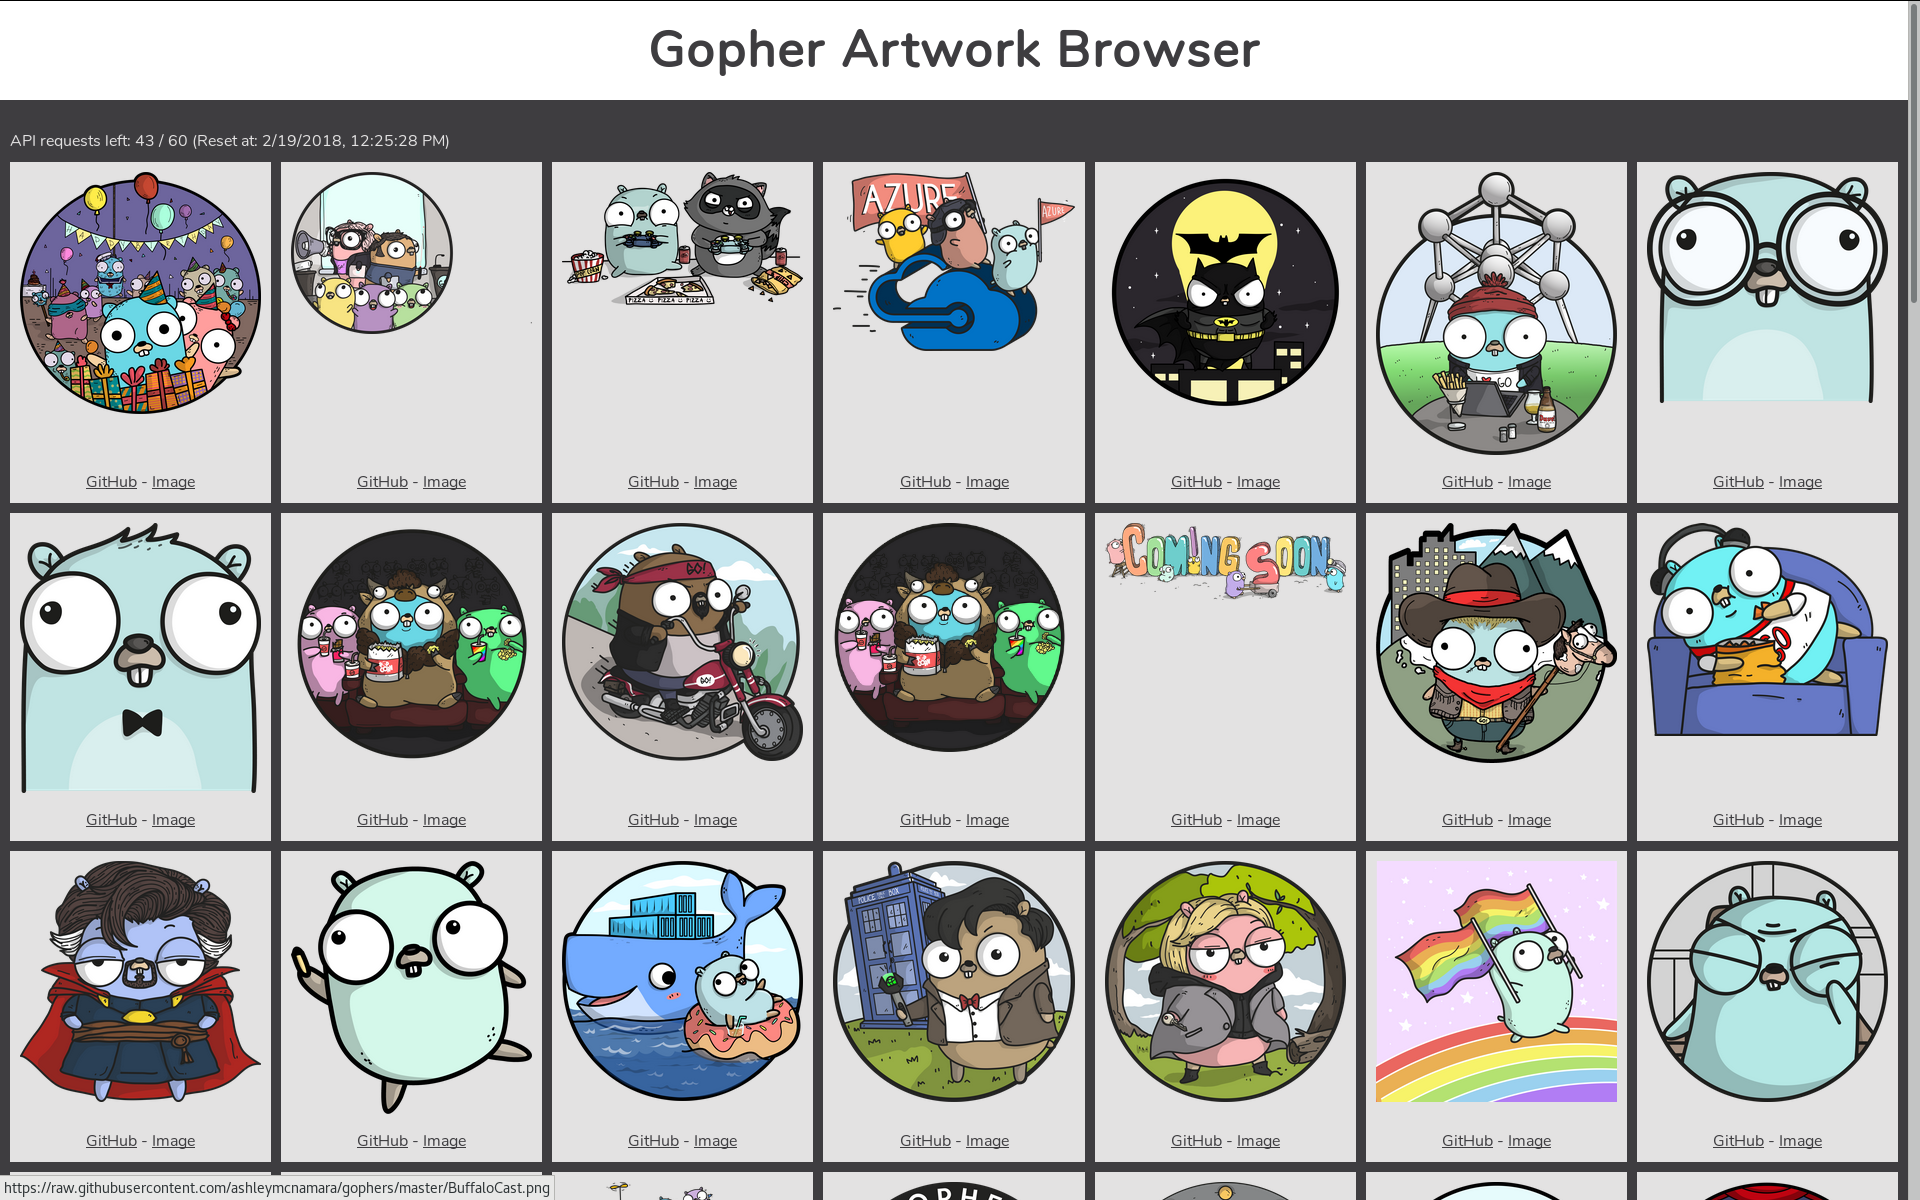
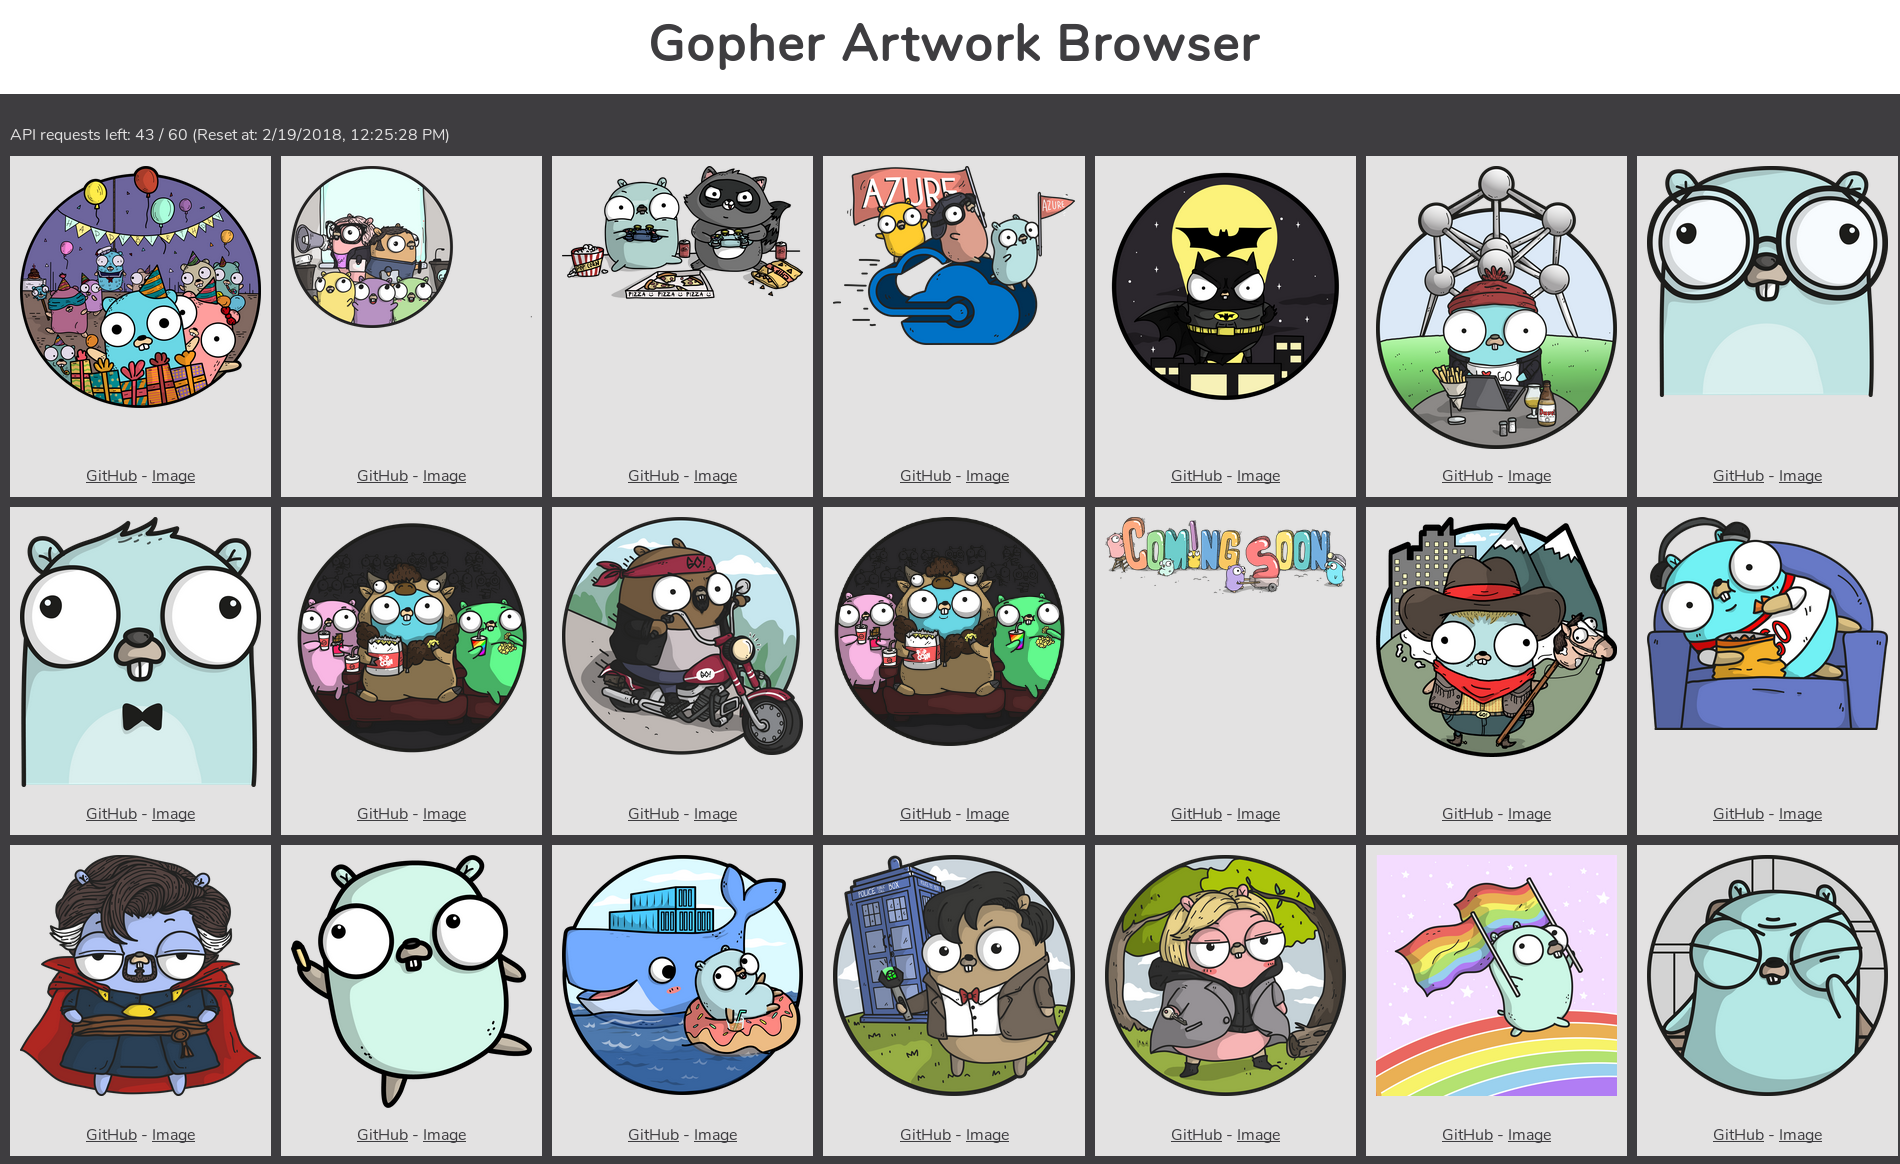
updated readme disign-affine text and screenshot

diff --git a/README.md b/README.md
@@ -1,6 +1,8 @@
 # Gopher Artwork Browser
 Use this repository to visualize the [Gopher Artwork](https://github.com/ashleymcnamara/gophers/) by Ashley McNamara ([@ashleymcnamara](https://twitter.com/ashleymcnamara))
 
+I'm not a design-affinate person at all, so PRs for changing/enhancing the UI are more than welcome.
+
 ![gopher artwork browser](screenshot.png)
 
 ## Usage
